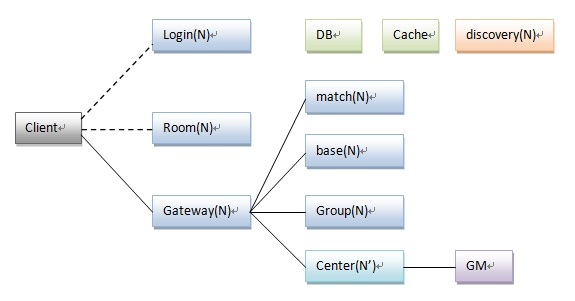
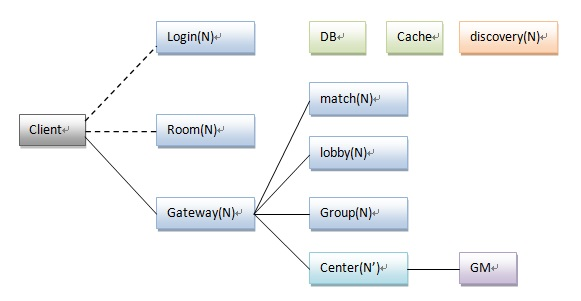
rename base to lobby

diff --git a/example1_iogame/src/lobby/lobby.go b/example1_iogame/src/lobby/lobby.go
@@ -8,18 +8,18 @@ import (
 	"github.com/fananchong/gotcp"
 )
 
-type Base struct {
+type Lobby struct {
 	srv *gotcp.Server
 }
 
-func NewBase() *Base {
-	this := &Base{
+func NewLobby() *Lobby {
+	this := &Lobby{
 		srv: &gotcp.Server{},
 	}
 	return this
 }
 
-func (this *Base) Start() bool {
+func (this *Lobby) Start() bool {
 	gotcp.SetLogger(xlog)
 	if this.startServer() == false {
 		return false
@@ -27,13 +27,13 @@ func (this *Base) Start() bool {
 	return true
 }
 
-func (this *Base) startServer() bool {
+func (this *Lobby) startServer() bool {
 	this.srv.RegisterSessType(SessionNode{})
 	addrinfo := strings.Split(xargs.ArgsBase.Pending.ExternalIp, ":")
 	port, _ := strconv.Atoi(addrinfo[1])
 	return this.srv.Start(fmt.Sprintf(":%d", port))
 }
 
-func (this *Base) Close() {
+func (this *Lobby) Close() {
 	this.srv.Close()
 }

diff --git a/example1_iogame/src/lobby/app.go b/example1_iogame/src/lobby/app.go
@@ -15,14 +15,14 @@ type App struct {
 
 func NewApp() *App {
 	this := &App{}
-	this.Type = int(common.Base)
+	this.Type = int(common.Lobby)
 	this.Args = xargs
 	this.Logger = xlog
 	this.Derived = this
 	return this
 }
 
-var runner = NewBase()
+var runner = NewLobby()
 
 func (this *App) OnAppReady() {
 	go func() {

diff --git a/common/service_def.go b/common/service_def.go
@@ -4,8 +4,8 @@ type ServerType int
 
 const (
 	_       ServerType = iota // 0
-	Base                      // 1
+	Login                     // 1
 	Gateway                   // 2
-	Login                     // 3
+	Lobby                     // 3
 	Room                      // 4
 )

diff --git a/example1_iogame/src/lobby/args.go b/example1_iogame/src/lobby/args.go
@@ -6,10 +6,10 @@ import (
 
 type Args struct {
 	common.ArgsBase
-	Base ArgsBase
+	Lobby ArgsLobby
 }
 
-type ArgsBase struct {
+type ArgsLobby struct {
 	ExternalIp string
 }
 
